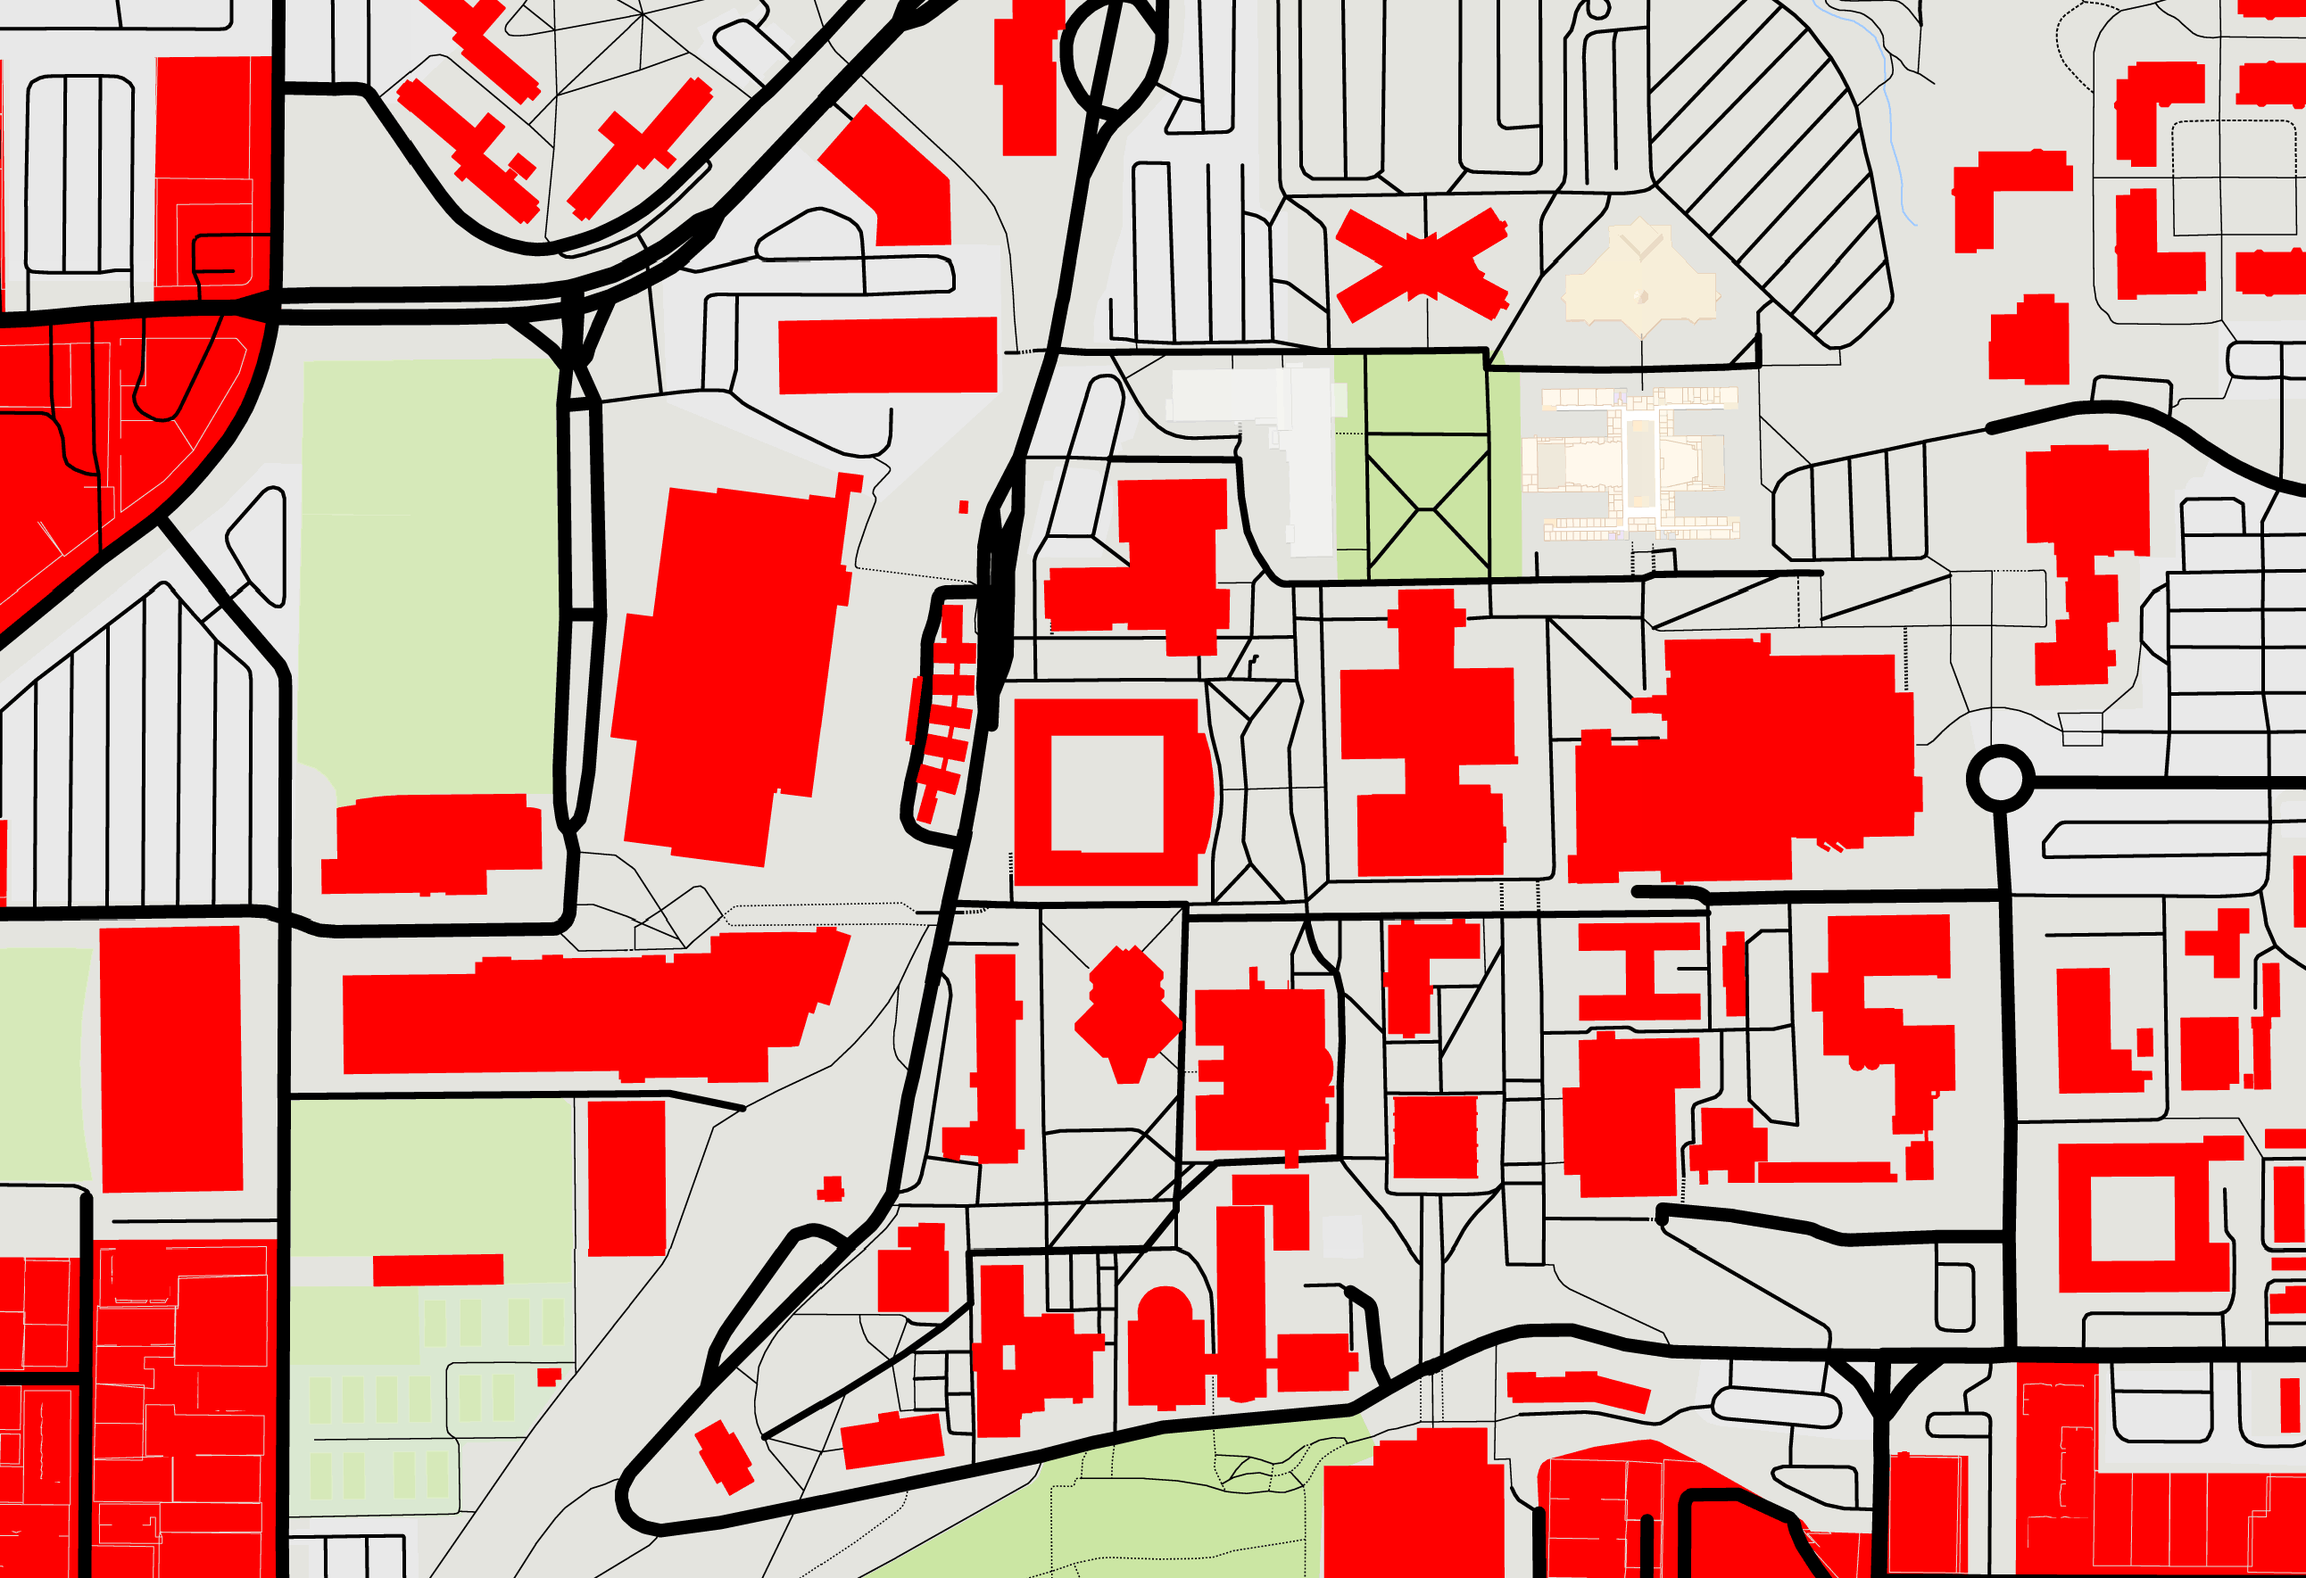
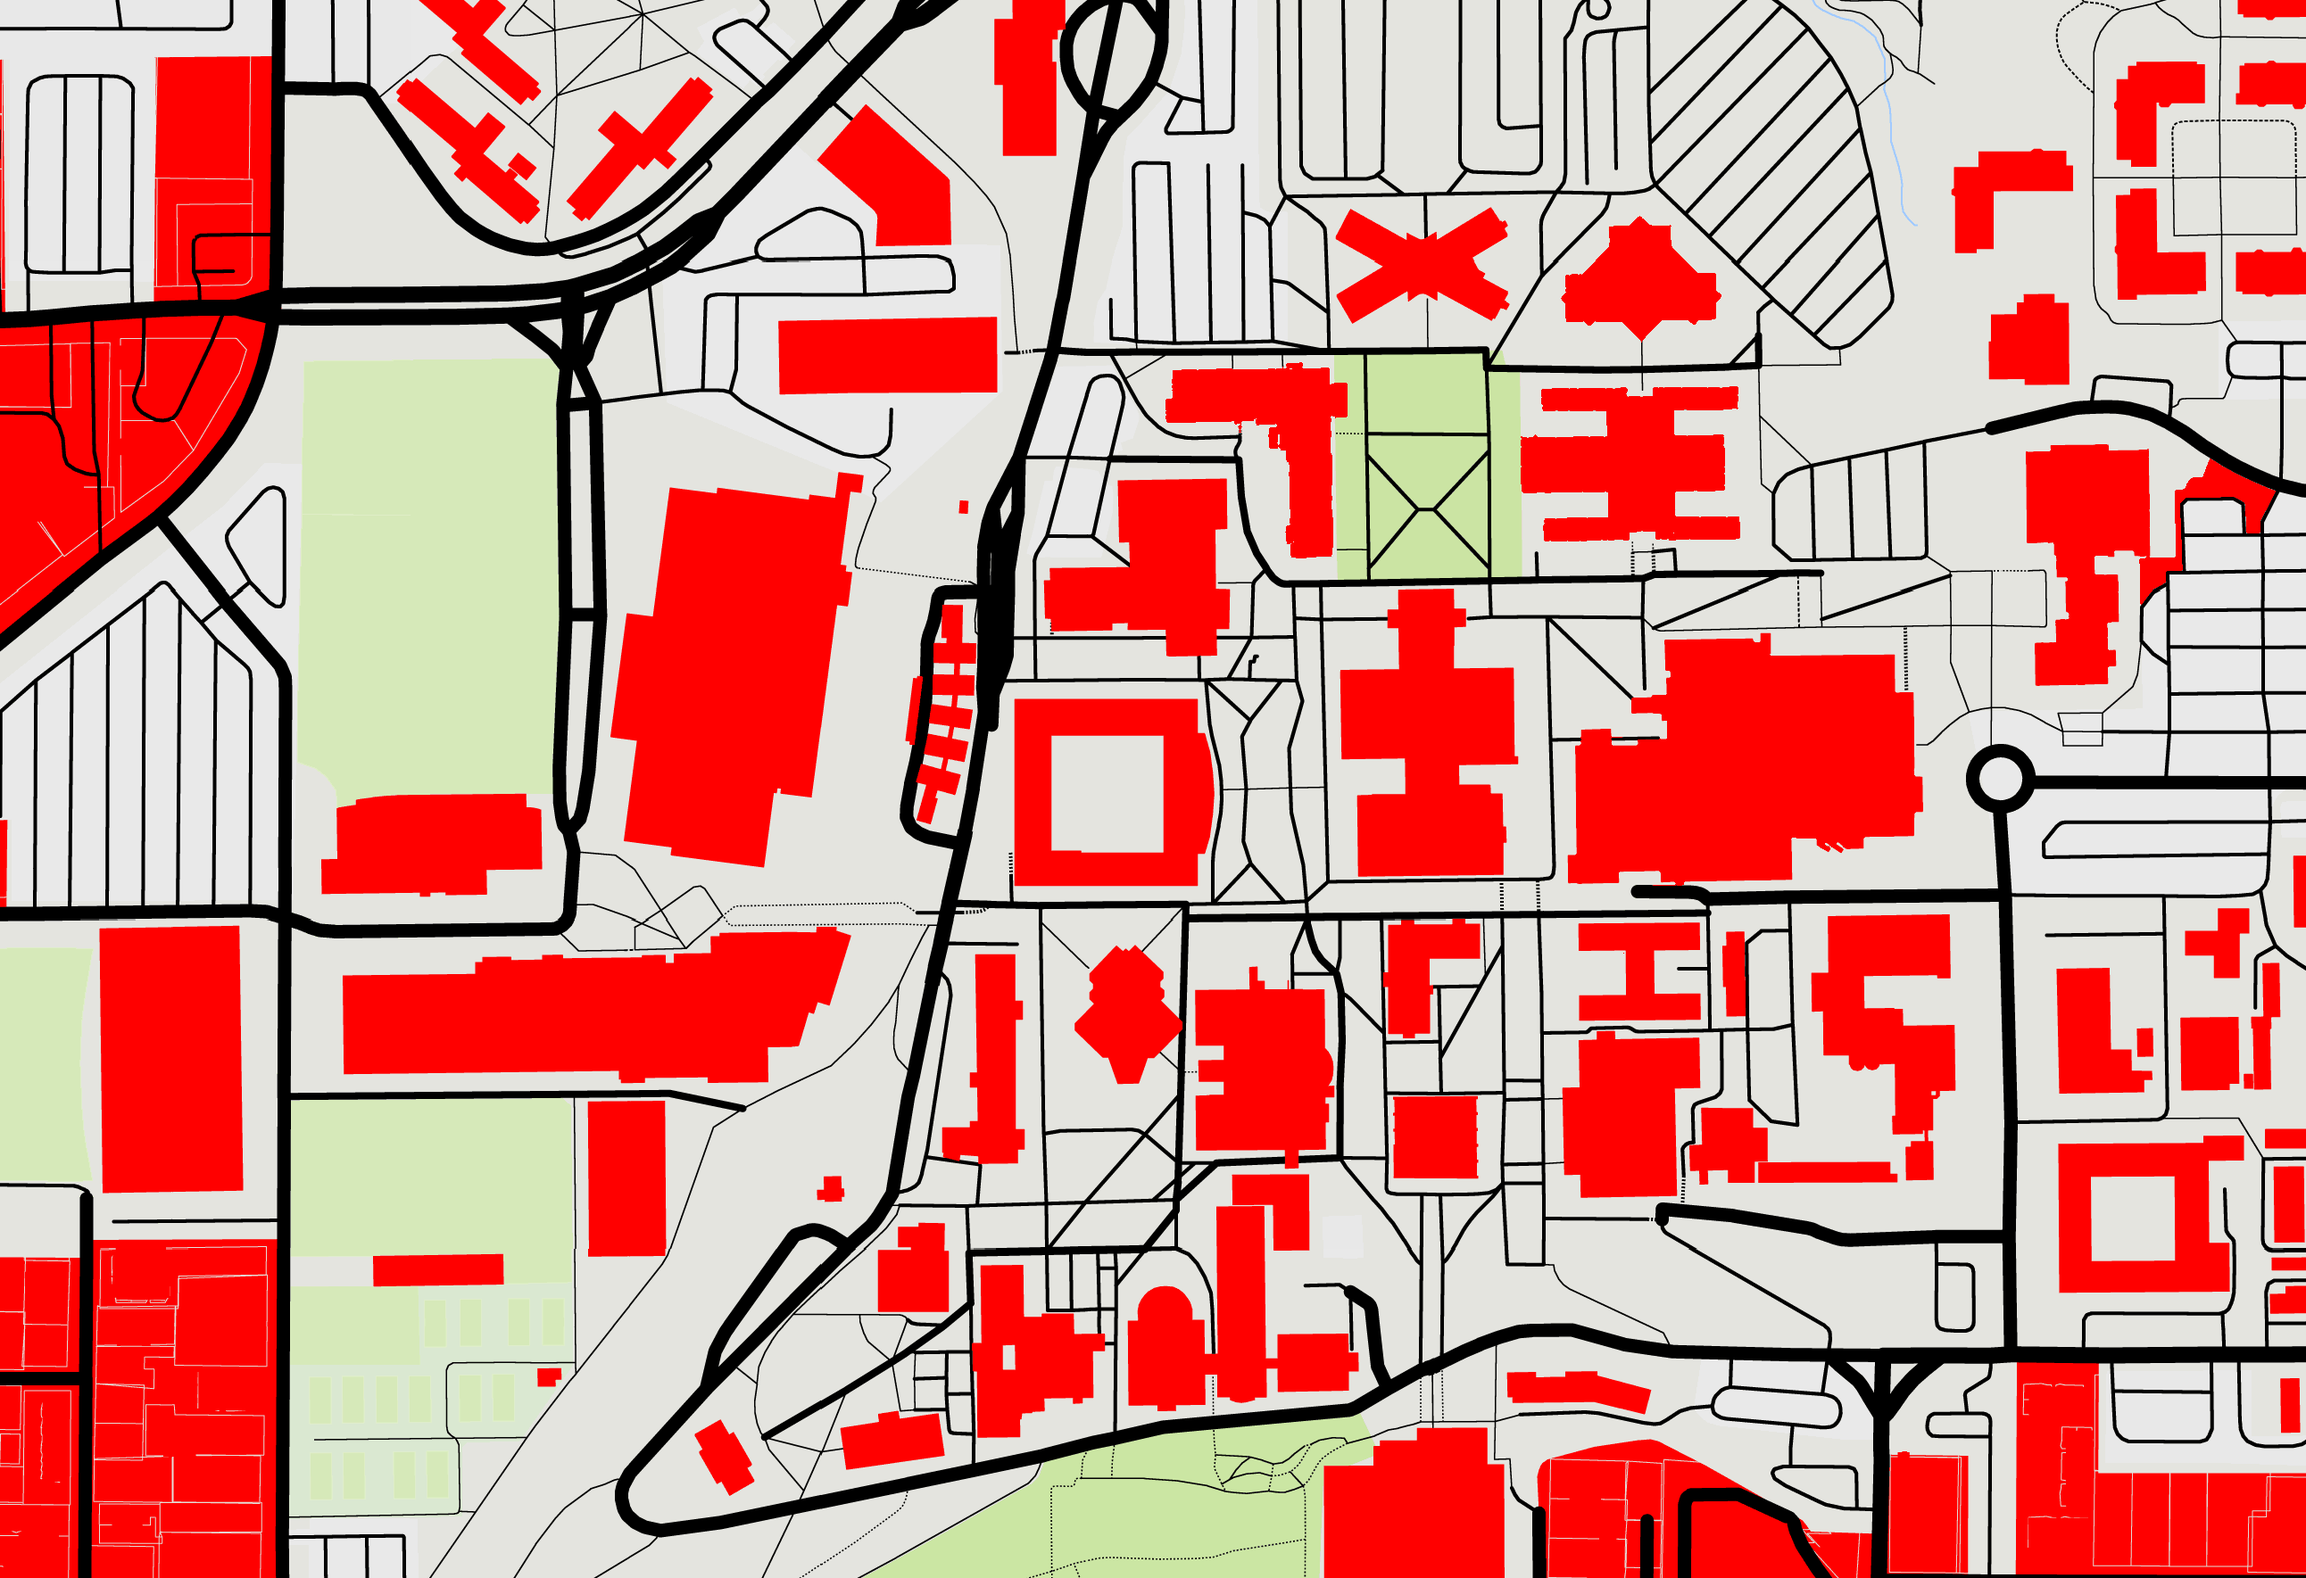
rename

diff --git a/tests/server/ProcessingTests.java b/tests/server/ProcessingTests.java
@@ -2,16 +2,25 @@ package server;
 
 import java.awt.Color;
 import java.awt.image.BufferedImage;
+import java.io.FileInputStream;
 import java.util.ArrayList;
+import java.util.List;
 
+import org.junit.BeforeClass;
 import org.junit.Test;
+
+import com.google.firebase.FirebaseApp;
+import com.google.firebase.FirebaseOptions;
 
 import generic.Config;
 import generic.Graph;
 import generic.GraphTools;
+import generic.ImageTools;
 import generic.Node;
 import generic.Tools;
+import generic.objects.Building;
 import googlemaps.LatLng;
+import server.dao.BuildingDAO;
 import server.processing.ColorOperations;
 
 public class ProcessingTests {
@@ -134,7 +143,7 @@ public class ProcessingTests {
 	}
 	
 	
-	@Test
+	//@Test
 	public void elevationNewInterpolationTest()
 	{
 		LatLng southwest = new LatLng(40.244803, -111.657854);
@@ -148,4 +157,30 @@ public class ProcessingTests {
 		double[][] elevs = APITools.GetAllElevations(nodes);
 		
 	}
+	
+	@Test
+	public void temp()
+	{
+		LatLng southwest = new LatLng(40.244803, -111.657854);
+		LatLng northeast = new LatLng(40.2519803, -111.643854);
+		int zoom = 18;
+		BufferedImage img;
+		img = Tools.ReadImage("mock/campus.png");
+		
+		List<Building> buildings = BuildingDAO.getAll();
+		img = ImageTools.fillBuildings(img, buildings, southwest, northeast);
+		
+		Tools.WriteImage(img, "mock/campus2.png");
+		
+	}
+	
+	
+
+	@BeforeClass
+	public static void setUpBeforeClass() throws Exception {
+		FirebaseOptions options = new FirebaseOptions.Builder().setServiceAccount(new FileInputStream("key.json"))
+				.setDatabaseUrl("https://walker-73119.firebaseio.com/").build();
+		FirebaseApp.initializeApp(options);
+	}
+	
 }
